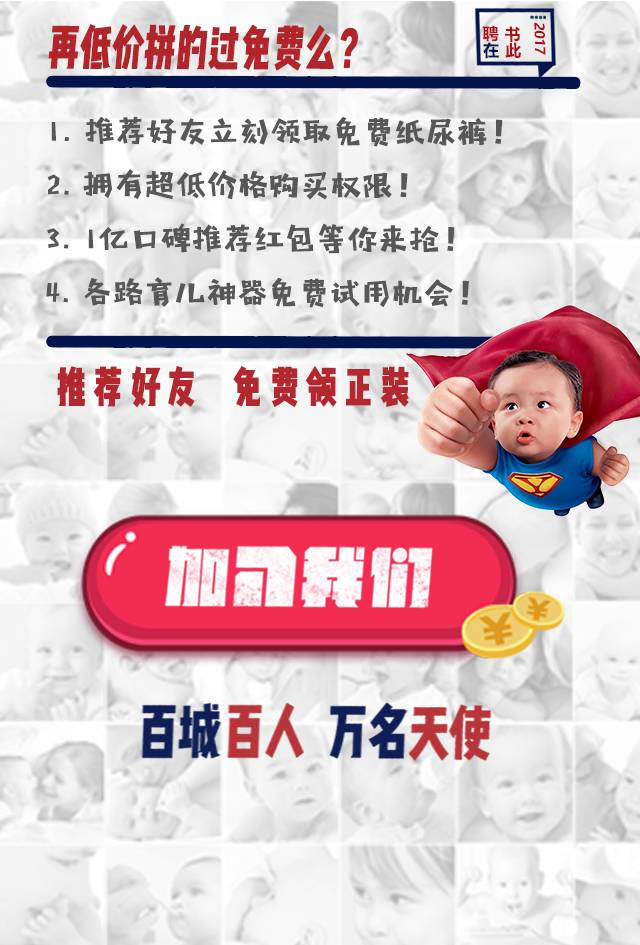
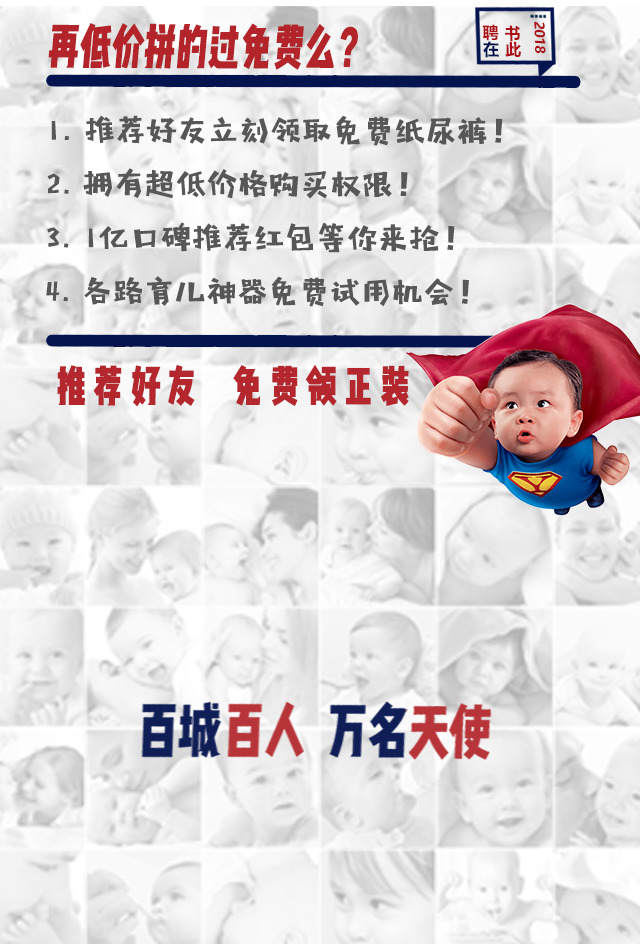
邀请

diff --git a/pages/home/home.js b/pages/home/home.js
@@ -4,6 +4,7 @@ let swiperAutoHeight = require("../../template/swiper/swiper.js"),
   Product = require("../../service/product.js"),
   Cart = require("../../service/cart.js"),
   Coupon = require("../../service/coupon.js"),
+  member = require("../../service/member.js"),
   Tenant = require("../../service/tenant.js"),
   Ad = require("../../service/ad.js"),
   app = getApp(),
@@ -20,9 +21,17 @@ Page(Object.assign({}, {
 
   //邀请
   joinUs: function () {
-    util.navigateTo({
-      url: 'join/join'
-    })
+    new member(function (res) {
+      if (res.data.userIsMember == 1) {
+        util.navigateTo({
+          url: '/pages/member/share/share'
+        })
+      } else {
+        util.navigateTo({
+          url: 'join/join'
+        })
+      }
+    }).view()
   },
 
   //视频

diff --git a/pages/pay/pay.js b/pages/pay/pay.js
@@ -153,7 +153,7 @@ Page(Object.assign({}, actionsheet, {
   formSubmit: function (e) {
     var that = this;
     new member(function(res){
-      if (res.data.userIsMember==0){
+      if (res.data.userIsMember==1){
         //创建订单submit
         new order(function (res) {
           wx.hideLoading();
